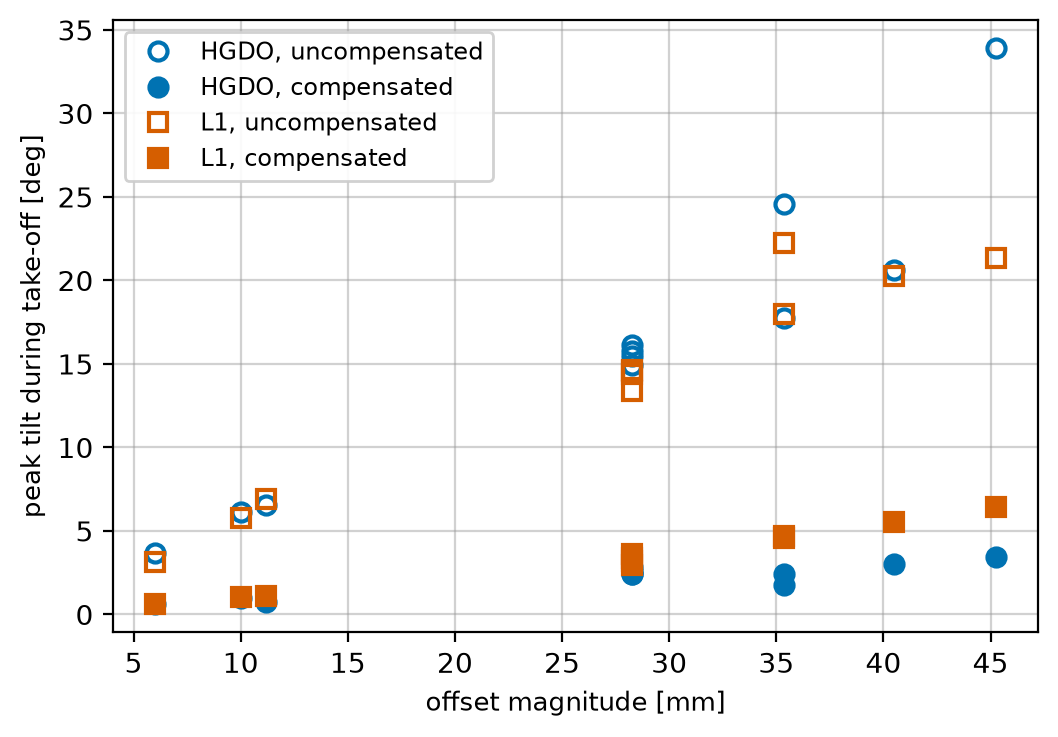
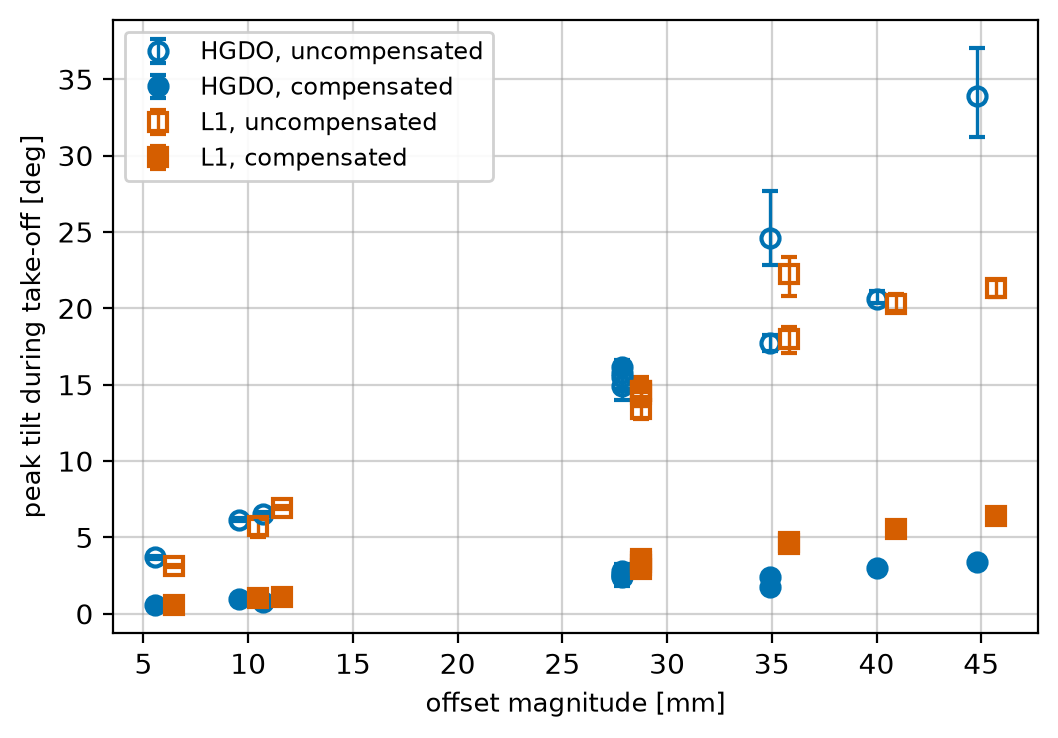
Add 95% interval error bars to the tilt-scaling figure
Each marker now carries the empirical 2.5-97.5 percentile interval
over that case's three flights; the two controllers are nudged
+-0.45 mm apart horizontally so bars at shared offset magnitudes
stay legible.

diff --git a/analysis/freeflight_sim_summary.py b/analysis/freeflight_sim_summary.py
@@ -182,15 +182,24 @@ def main():
 
     # ── (b) disturbance scaling ──────────────────────────────────────
     fig2, ax = plt.subplots(figsize=(5.4, 3.8))
+    # several cases share one offset magnitude, so nudge the two
+    # controllers apart horizontally to keep the error bars legible
+    dodge = {'HGDO': -0.45, 'L1': +0.45}
     for ctrl in ctrls:
         for var, filled, lab in (('wo_ff', False, 'uncompensated'),
                                  ('w_ff', True, 'compensated')):
-            mags = [np.hypot(*CASES[c][:2]) for c in order]
-            tilts = [mean[(c, ctrl, var)]['tilt'] for c in order]
-            ax.plot(mags, tilts, MRK[ctrl], ms=6.5,
-                    mfc=COL[ctrl] if filled else 'none',
-                    mew=1.5, color=COL[ctrl], ls='',
-                    label=f'{ctrl}, {lab}', zorder=3)
+            mags = np.array([np.hypot(*CASES[c][:2]) for c in order])
+            per = [np.array([x['tilt'] for x in cells[(c, ctrl, var)]])
+                   for c in order]
+            y = np.array([v.mean() for v in per])
+            lo = np.array([np.percentile(v, 2.5) for v in per])
+            hi = np.array([np.percentile(v, 97.5) for v in per])
+            ax.errorbar(mags + dodge.get(ctrl, 0.0), y,
+                        yerr=[y - lo, hi - y], fmt=MRK[ctrl], ms=6.5,
+                        mfc=COL[ctrl] if filled else 'none',
+                        mew=1.5, color=COL[ctrl], ecolor=COL[ctrl],
+                        elinewidth=1.2, capsize=3.0, capthick=1.2,
+                        ls='', label=f'{ctrl}, {lab}', zorder=3)
     ax.set_xlabel('offset magnitude [mm]', fontsize=9.5)
     ax.set_ylabel('peak tilt during take-off [deg]', fontsize=9.5)
     ax.grid(alpha=0.45, lw=0.8, color='0.6')
